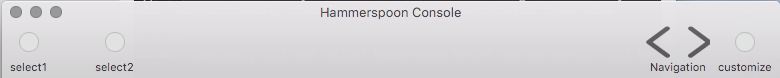
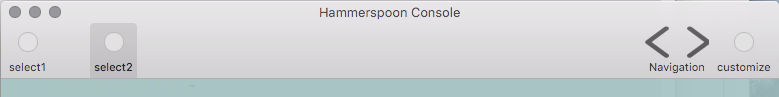
updating documentation

diff --git a/toolbar/internal.m b/toolbar/internal.m
@@ -1341,6 +1341,15 @@ static int userdata_eq(lua_State* L) {
     return 1 ;
 }
 
+/// hs._asm.toolbar:delete() -> none
+/// Method
+/// Deletes the toolbar, removing it from its window if it is currently attached.
+///
+/// Parameters:
+///  * None
+///
+/// Returns:
+///  * None
 static int userdata_gc(lua_State* L) {
     LuaSkin *skin = [LuaSkin shared] ;
     HSToolbar *obj = get_objectFromUserdata(__bridge_transfer HSToolbar, L, 1, USERDATA_TAG) ;

diff --git a/toolbar/README.md b/toolbar/README.md
@@ -3,7 +3,17 @@ hs._asm.toolbar
 
 Create and manipulate toolbars which can be attached to the Hammerspoon console or hs.webview objects.
 
-A basic, but incomplete, example:
+### Toolbar Basics
+
+Toolbars are attached to titled windows and provide buttons which can be used to perform various actions within the application.  Hammerspoon can use this module to add toolbars to the console or `hs.webview` objects which have a title bar (see `hs.webview.windowMasks` and `hs.webview:windowStyle`).  Toolbars are identified by a unique identifier which is used by OS X to identify information which can be auto saved in the application's user defaults to reflect changes the user has made to the toolbar button order or active button list (this requires setting [hs._asm.toolbar:autosaves](#autosaves) and [hs._asm.toolbar:canCustomize](#canCustomize) both to true).
+
+Multiple copies of the same toolbar can be made with the [hs._asm.toolbar:copy](#copy) method so that multiple webview windows use the same toolbar, for example.  If the user customizes a copied toolbar, changes to the active buttons or their order will be reflected in all copies of the toolbar.
+
+You cannot add items to an existing toolbar, but you can delete it and re-create it with the same identifier, adding new button items to the new instance.  If the toolbar identifier matches autosaved preferences, the new toolbar will look like it did before, but the user will be able to add the new items by customizing the toolbar or by using the [hs._asm.toolbar:insertItem](#insertItem) method.
+
+### Example
+
+A basic, example:
 
 ~~~lua
 t = require("hs._asm.toolbar")
@@ -21,7 +31,7 @@ a = t.new("myConsole", {
         { id = "cust", label = "customize", fn = function(t, w, i) t:customizePanel() end }
     }):canCustomize(true)
       :autosaves(true)
-      :selectedItem("2")
+      :selectedItem("select2")
       :setCallback(function(...)
                         print("a", inspect(table.pack(...)))
                    end)
@@ -140,9 +150,9 @@ Notes:
 
 ### Module Methods
 
-<a name="autossaves"></a>
+<a name="autosaves"></a>
 ~~~lua
-toolbar:autossaves([bool]) -> toolbarObject | bool
+toolbar:autosaves([bool]) -> toolbarObject | bool
 ~~~
 Get or set whether or not the toolbar autosaves changes made to the toolbar.
 
@@ -206,6 +216,20 @@ Parameters:
 
 Returns:
  * a copy of the toolbar which can be attached to another window (webview or console).
+
+- - -
+
+<a name="delete"></a>
+~~~lua
+toolbar:delete() -> none
+~~~
+Deletes the toolbar, removing it from its window if it is currently attached.
+
+Parameters:
+ * None
+
+Returns:
+ * None
 
 - - -
 
